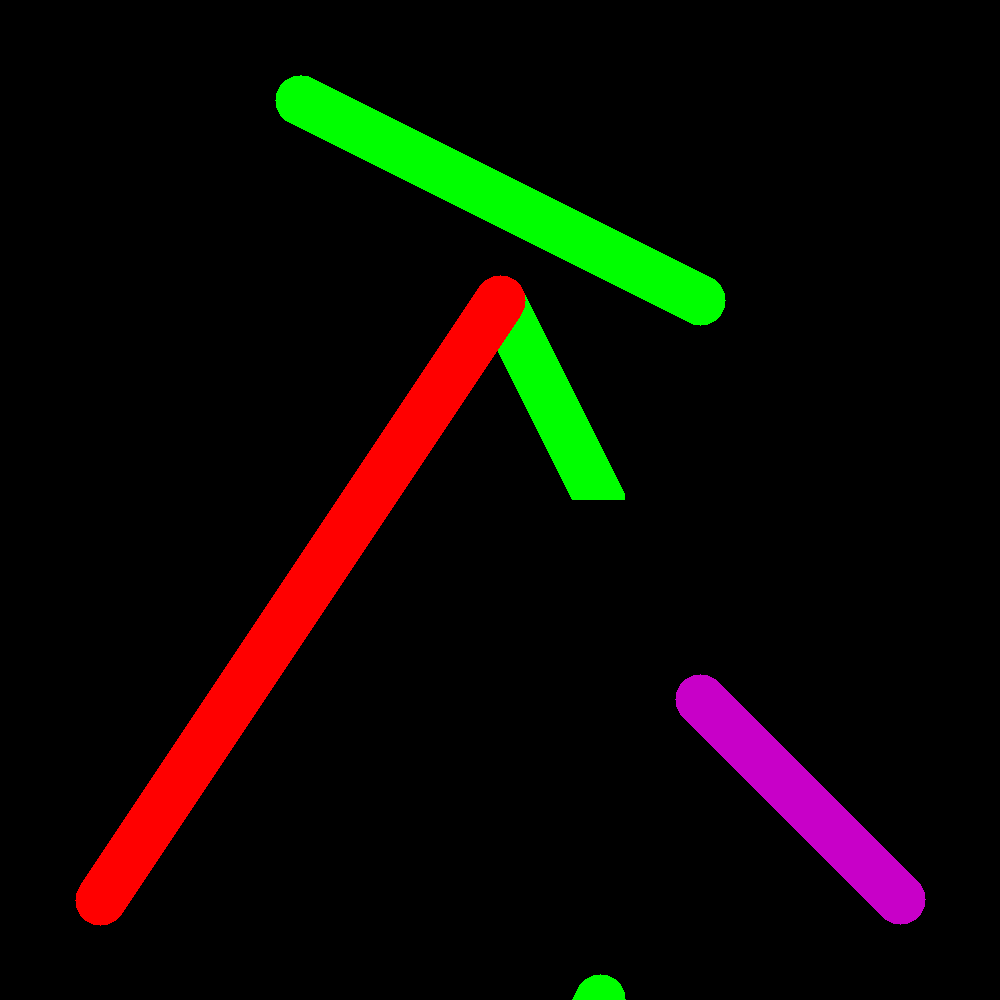
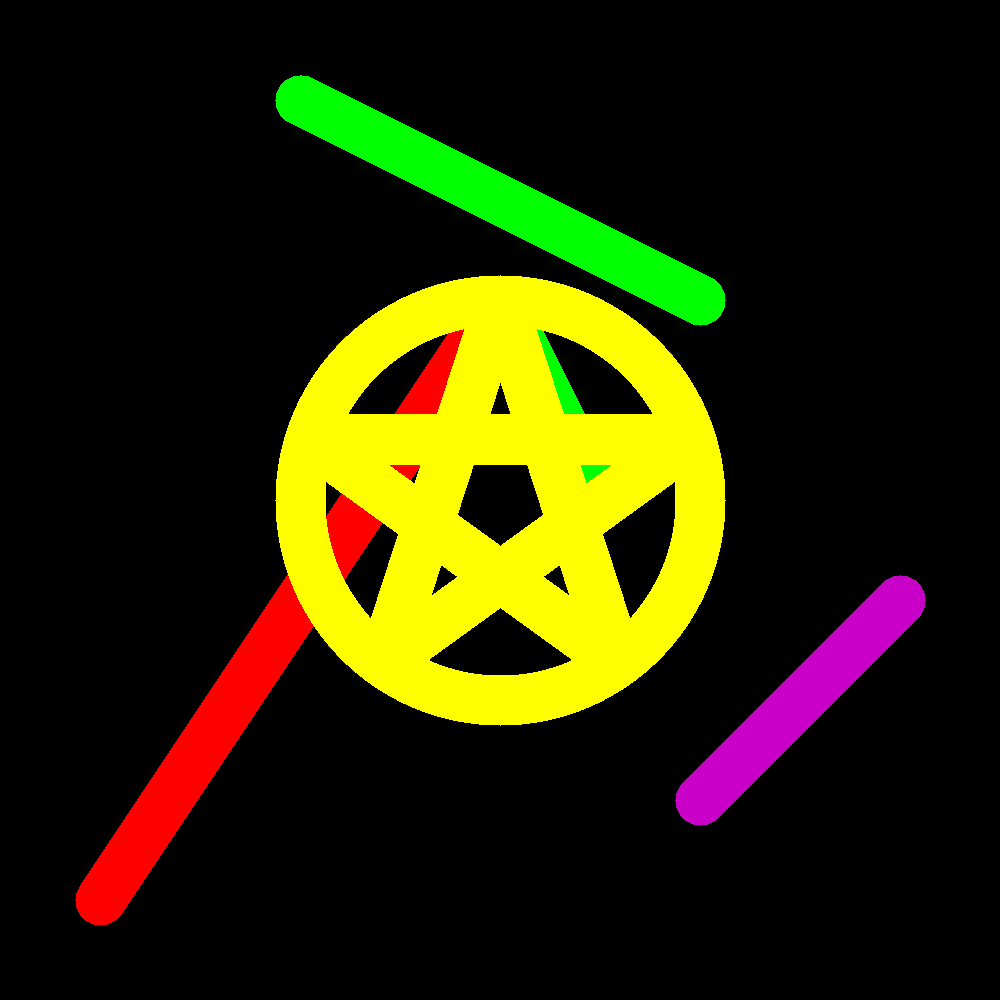
add Pentogram::draw

Changed region(s): [[0.279, 0.279, 0.93, 0.93], [0.558, 0.961, 0.651, 1.0]]

diff --git a/src/pentagram.cpp b/src/pentagram.cpp
@@ -3,7 +3,6 @@
 
 _DRAWING_BEGIN
 
-
 Pentagram::Pentagram()
     : _center({0, 0}), _radius(0), _thickness(0), _color(png::Color())
 {    }
@@ -11,7 +10,101 @@ Pentagram::Pentagram()
 void
 Pentagram::draw(png::Image &_image) const
 {
-    throw std::runtime_error("Pentagram::draw");
+    this->draw_ring(_image);
+
+    this->draw_star(_image);
+
+}
+
+void
+Pentagram::draw_ring(png::Image &_image) const
+{
+    if (!this->_thickness || !this->_radius)
+        throw std::invalid_argument("bad data for Pentagram");
+
+    std::int64_t __x = this->_center.x();
+    std::int64_t __y = this->_center.y();
+    std::int64_t __t = this->_thickness;
+    std::int64_t r = static_cast<std::int64_t>(this->_radius) - __t / 2;
+    std::int64_t R = static_cast<std::int64_t>(this->_radius) + __t / 2;
+
+    std::uint64_t min_x = __x - R >= 0 
+                ? __x - R 
+                : 0;
+    
+    std::uint64_t max_x = __x + R < _image.width()
+                ? __x + R
+                : _image.width() - 1;
+
+    std::uint64_t min_y = __y - R >= 0
+                ? __y - R
+                : 0;
+
+    std::uint64_t max_y = __y + R < _image.height()
+                ? __y + R
+                : _image.height() - 1;
+    
+    std::int64_t __dx, __dy;
+    for (std::int64_t y = min_y; y <= max_y; y++)
+        for (std::int64_t x = min_x; x <= max_x; x++)
+        {
+            __dx = x - __x;
+            __dy = y - __y;
+
+            if (
+                   std::pow(__dx, 2) + std::pow(__dy, 2) <= std::pow(R, 2)
+                && std::pow(__dx, 2) + std::pow(__dy, 2) >= std::pow(r, 2)
+            ) _image.pixel({
+                static_cast<std::uint64_t>(x),
+                static_cast<std::uint64_t>(y)
+            }, this->_color);
+        }
+
+}
+
+void
+Pentagram::draw_star(png::Image &_image) const
+{
+    Point p0 = this->__get_next_star_peak();
+    Point p1 = this->__get_next_star_peak();
+    Point p2 = this->__get_next_star_peak();
+    Point p3 = this->__get_next_star_peak();
+    Point p4 = this->__get_next_star_peak();
+
+    LineBuilder line_builder;
+    line_builder.setup_color(this->_color)
+                .setup_thickness(this->_thickness);
+    
+    line_builder.setup_start(p0)
+                .setup_end(p2);
+    line_builder.get()->draw(_image); // p0 -> p2
+    
+    line_builder.setup_end(p3);
+    line_builder.get()->draw(_image); // p0 -> p3
+    
+    line_builder.setup_start(p1);
+    line_builder.get()->draw(_image); // p1 -> p3
+    
+    line_builder.setup_end(p4);
+    line_builder.get()->draw(_image); // p1 -> p4
+    
+    line_builder.setup_start(p2);
+    line_builder.get()->draw(_image); // p2 -> p4
+
+}
+
+Point 
+Pentagram::__get_next_star_peak() const
+{
+    static std::uint64_t i = 0;
+    long double offset = (2 * PI / 5) * ((i++) % 5);
+    std::int64_t __x = this->_center.x();
+    std::int64_t __y = this->_center.y();
+
+    return Point(
+        __x + static_cast<std::int64_t>(this->_radius * std::sin(offset)),
+        __y - static_cast<std::int64_t>(this->_radius * std::cos(offset))
+    );
 
 }
 

diff --git a/src/circle.cpp b/src/circle.cpp
@@ -17,19 +17,19 @@ Circle::draw(png::Image &_image) const
     std::int64_t __y = this->_center.y();
     std::int64_t __r = this->_radius;
 
-    std::size_t min_x = __x - __r >= 0 
+    std::uint64_t min_x = __x - __r >= 0 
                ? __x - __r 
                : 0;
     
-    std::size_t max_x = __x + __r < _image.width()
+    std::uint64_t max_x = __x + __r < _image.width()
                ? __x + __r
                : _image.width() - 1;
 
-    std::size_t min_y = __y - __r >= 0
+    std::uint64_t min_y = __y - __r >= 0
                ? __y - __r
                : 0;
 
-    std::size_t max_y = __y + __r < _image.height()
+    std::uint64_t max_y = __y + __r < _image.height()
                ? __y + __r
                : _image.height() - 1;
 
@@ -43,8 +43,8 @@ Circle::draw(png::Image &_image) const
             if (
                 std::pow(__dx, 2) + std::pow(__dy, 2) <= std::pow(__r, 2)
             ) _image.pixel({
-                static_cast<std::size_t>(x),
-                static_cast<std::size_t>(y)
+                static_cast<std::uint64_t>(x),
+                static_cast<std::uint64_t>(y)
             }, this->_color);
         }
 

diff --git a/main.cpp b/main.cpp
@@ -6,10 +6,20 @@ int main(int argc, char **argv)
 {
     png::Image image("./data/image.png");
 
-    drawing::MirrorBuilder builder;
-    builder.setup_axis('x')
-           .setup_left_up({500, 500})
-           .setup_right_down({1100, 1100});
+    drawing::PentagramBuilder builder;
+
+    builder.setup_center({500, 500})
+           .setup_color(png::Color(255, 255, 0))
+           .setup_radius(200)
+           .setup_thickness(50);
+
+    // builder.setup_axis('x')
+    //        .setup_left_up({500, 500})
+    //        .setup_right_down({1100, 1100});
+
+    // builder.setup_color(png::Color(0, 255, 0))
+    //        .setup_center({1000, 1000})
+    //        .setup_radius(50);
 
     builder.get()->draw(image);
 

diff --git a/headers/pentagram.h b/headers/pentagram.h
@@ -4,10 +4,14 @@
 #ifndef _PENTAGRAM_H
 #define _PENTAGRAM_H
 
+#include <cmath>
+
 #include "figure.h"
-#include "builder.h"
+#include "line_builder.h"
 
 _DRAWING_BEGIN
+
+static long double PI = 3.14159265;
 
 class Pentagram : public Figure
 {
@@ -18,13 +22,19 @@ public:
 
     void draw(png::Image &_image) const override;
 
+    void draw_ring(png::Image &_image) const;
+    void draw_star(png::Image &_image) const;
+
     ~Pentagram() override = default;
 
 private:
     Point _center;
-    std::size_t _radius;
+    std::uint64_t _radius;
     std::size_t _thickness;
     png::Color _color;
+
+private:
+    Point __get_next_star_peak() const;
 
 };
 

diff --git a/src/image.cpp b/src/image.cpp
@@ -169,10 +169,10 @@ Image::_clear_read_data()
     if (this->_png_read_ptr == NULL && this->_info_read_ptr == NULL)
         return;
     
-    png_destroy_read_struct(&this->_png_read_ptr, &this->_info_read_ptr, nullptr);
-    this->_png_read_ptr = nullptr;
-    this->_info_read_ptr = nullptr;
-    this->_rows = nullptr;
+    png_destroy_read_struct(&this->_png_read_ptr, &this->_info_read_ptr, NULL);
+    this->_png_read_ptr = NULL;
+    this->_info_read_ptr = NULL;
+    this->_rows = NULL;
 
 }
 

diff --git a/headers/pentagram_builder.h b/headers/pentagram_builder.h
@@ -12,7 +12,7 @@ _DRAWING_BEGIN
 REG_BUILDER_BEGIN(Pentagram)
 
     BUILDER(Pentagram)& setup_center(const Point &_c);
-    BUILDER(Pentagram)& setup_radius(std::size_t _r);
+    BUILDER(Pentagram)& setup_radius(std::uint64_t _r);
     BUILDER(Pentagram)& setup_thickness(std::size_t _t);
     BUILDER(Pentagram)& setup_color(const png::Color &_c);
 

diff --git a/headers/image.h b/headers/image.h
@@ -15,10 +15,10 @@ _PNG_BEGIN
 class Image
 {
 protected:
-    png_structp _png_read_ptr = nullptr;
-    png_infop _info_read_ptr = nullptr;
+    png_structp _png_read_ptr = NULL;
+    png_infop _info_read_ptr = NULL;
     
-    png_bytepp _rows = nullptr;
+    png_bytepp _rows = NULL;
     png_byte _channels;
 
     std::size_t _width;

diff --git a/src/pentagram_builder.cpp b/src/pentagram_builder.cpp
@@ -13,7 +13,7 @@ BUILDER(Pentagram)::setup_center(const Point &_c)
 }
 
 BUILDER(Pentagram)&
-BUILDER(Pentagram)::setup_radius(std::size_t _r)
+BUILDER(Pentagram)::setup_radius(std::uint64_t _r)
 {
     if (_r < 1)
         throw std::invalid_argument("Pentagram radius must be greater than 0");
